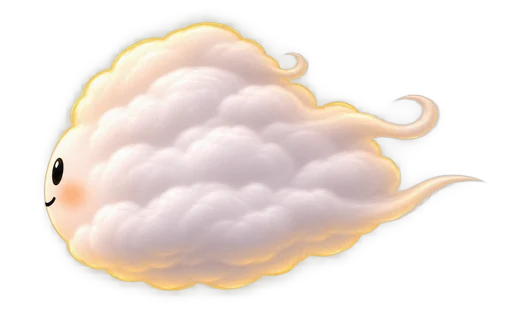
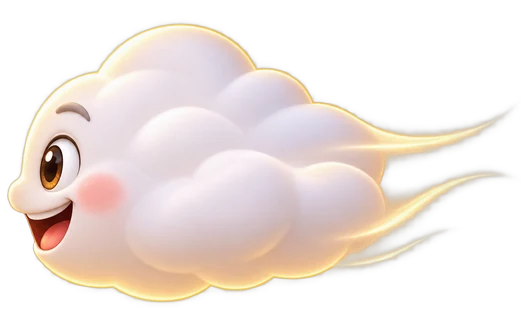
Breezy's one face: big happy eyes in all four website drawings
Cris picked this face for everywhere on Nov 18, so the site matches the animation.
The old blink lids were sized for small oval eyes and are off until they are redrawn.

Changed region(s): [[0.0, 0.0612, 0.9697, 0.948], [0.4848, 0.6116, 0.5455, 0.6728]]

diff --git a/public/welcome/index.html b/public/welcome/index.html
@@ -11,7 +11,7 @@
 <meta name="description" content="You're a Big Breezoe member now. Watch the short clip, see what you get for free, and answer nine quick taps to find your first step.">
 <!--bb:head-->
 <link rel="preload" href="/fonts/archivo-latin.woff2" as="font" type="font/woff2" crossorigin>
-<link rel="stylesheet" href="/assets/bb.css?v=29eba248fc">
+<link rel="stylesheet" href="/assets/bb.css?v=bfbae03213">
 <script>document.documentElement.classList.add('js');setTimeout(function(){if(!window.__bbReady)document.documentElement.classList.add('rv-off')},2500)</script>
 <script src="/assets/bb.js?v=9c94d886b9" data-bz="b464231d4d" defer></script>
 <!--/bb:head-->

diff --git a/public/assets/bb.css b/public/assets/bb.css
@@ -1264,3 +1264,7 @@ body::after{content:'';position:fixed;inset:0;z-index:-1;pointer-events:none;
 .bzc[data-view=tq] .bzc-lid.l{left:25.4%;top:44.0%;width:3.2%;height:10.1%;margin-left:-1.6%}
 .bzc[data-view=tq] .bzc-lid.r{left:35.2%;top:45.9%;width:4.0%;height:10.4%;margin-left:-2.0%}
 @media (prefers-reduced-motion:reduce){.bzc-turn,.bzc-turn img{transition:none}}
+
+/* ---------- Nov 18: Breezy's one face. Cris picked the big happy eyes for everywhere, so the four drawings are redrawn in that face.
+   The old blink was two lids sized for small oval eyes; it is off until lids are redrawn for these eyes. ---------- */
+.bzc-lid{display:none!important}

diff --git a/public/index.html b/public/index.html
@@ -29,7 +29,7 @@
 <link rel="preload" href="/media/hero-loop.avif" as="image" type="image/avif" fetchpriority="high">
 <!--bb:head-->
 <link rel="preload" href="/fonts/archivo-latin.woff2" as="font" type="font/woff2" crossorigin>
-<link rel="stylesheet" href="/assets/bb.css?v=29eba248fc">
+<link rel="stylesheet" href="/assets/bb.css?v=bfbae03213">
 <script>document.documentElement.classList.add('js');setTimeout(function(){if(!window.__bbReady)document.documentElement.classList.add('rv-off')},2500)</script>
 <script src="/assets/bb.js?v=9c94d886b9" data-bz="b464231d4d" defer></script>
 <!--/bb:head-->

diff --git a/public/404.html b/public/404.html
@@ -11,7 +11,7 @@
 <noscript></noscript>
 <!--bb:head-->
 <link rel="preload" href="/fonts/archivo-latin.woff2" as="font" type="font/woff2" crossorigin>
-<link rel="stylesheet" href="/assets/bb.css?v=29eba248fc">
+<link rel="stylesheet" href="/assets/bb.css?v=bfbae03213">
 <script>document.documentElement.classList.add('js');setTimeout(function(){if(!window.__bbReady)document.documentElement.classList.add('rv-off')},2500)</script>
 <script src="/assets/bb.js?v=9c94d886b9" data-bz="b464231d4d" defer></script>
 <!--/bb:head-->

diff --git a/public/blogs/index.html b/public/blogs/index.html
@@ -24,7 +24,7 @@
 <noscript></noscript>
 <!--bb:head-->
 <link rel="preload" href="/fonts/archivo-latin.woff2" as="font" type="font/woff2" crossorigin>
-<link rel="stylesheet" href="/assets/bb.css?v=29eba248fc">
+<link rel="stylesheet" href="/assets/bb.css?v=bfbae03213">
 <script>document.documentElement.classList.add('js');setTimeout(function(){if(!window.__bbReady)document.documentElement.classList.add('rv-off')},2500)</script>
 <script src="/assets/bb.js?v=9c94d886b9" data-bz="b464231d4d" defer></script>
 <!--/bb:head-->

diff --git a/public/blueprint/guide/index.html b/public/blueprint/guide/index.html
@@ -24,7 +24,7 @@
 <noscript></noscript>
 <!--bb:head-->
 <link rel="preload" href="/fonts/archivo-latin.woff2" as="font" type="font/woff2" crossorigin>
-<link rel="stylesheet" href="/assets/bb.css?v=29eba248fc">
+<link rel="stylesheet" href="/assets/bb.css?v=bfbae03213">
 <script>document.documentElement.classList.add('js');setTimeout(function(){if(!window.__bbReady)document.documentElement.classList.add('rv-off')},2500)</script>
 <script src="/assets/bb.js?v=9c94d886b9" data-bz="b464231d4d" defer></script>
 <!--/bb:head-->

diff --git a/public/blueprint/index.html b/public/blueprint/index.html
@@ -24,7 +24,7 @@
 <noscript></noscript>
 <!--bb:head-->
 <link rel="preload" href="/fonts/archivo-latin.woff2" as="font" type="font/woff2" crossorigin>
-<link rel="stylesheet" href="/assets/bb.css?v=29eba248fc">
+<link rel="stylesheet" href="/assets/bb.css?v=bfbae03213">
 <script>document.documentElement.classList.add('js');setTimeout(function(){if(!window.__bbReady)document.documentElement.classList.add('rv-off')},2500)</script>
 <script src="/assets/bb.js?v=9c94d886b9" data-bz="b464231d4d" defer></script>
 <!--/bb:head-->

diff --git a/public/booked/index.html b/public/booked/index.html
@@ -11,7 +11,7 @@
 <noscript></noscript>
 <!--bb:head-->
 <link rel="preload" href="/fonts/archivo-latin.woff2" as="font" type="font/woff2" crossorigin>
-<link rel="stylesheet" href="/assets/bb.css?v=29eba248fc">
+<link rel="stylesheet" href="/assets/bb.css?v=bfbae03213">
 <script>document.documentElement.classList.add('js');setTimeout(function(){if(!window.__bbReady)document.documentElement.classList.add('rv-off')},2500)</script>
 <script src="/assets/bb.js?v=9c94d886b9" data-bz="b464231d4d" defer></script>
 <!--/bb:head-->

diff --git a/public/checkout/index.html b/public/checkout/index.html
@@ -11,7 +11,7 @@
 <noscript></noscript>
 <!--bb:head-->
 <link rel="preload" href="/fonts/archivo-latin.woff2" as="font" type="font/woff2" crossorigin>
-<link rel="stylesheet" href="/assets/bb.css?v=29eba248fc">
+<link rel="stylesheet" href="/assets/bb.css?v=bfbae03213">
 <script>document.documentElement.classList.add('js');setTimeout(function(){if(!window.__bbReady)document.documentElement.classList.add('rv-off')},2500)</script>
 <script src="/assets/bb.js?v=9c94d886b9" data-bz="b464231d4d" defer></script>
 <!--/bb:head-->

diff --git a/public/download/index.html b/public/download/index.html
@@ -11,7 +11,7 @@
 <noscript></noscript>
 <!--bb:head-->
 <link rel="preload" href="/fonts/archivo-latin.woff2" as="font" type="font/woff2" crossorigin>
-<link rel="stylesheet" href="/assets/bb.css?v=29eba248fc">
+<link rel="stylesheet" href="/assets/bb.css?v=bfbae03213">
 <script>document.documentElement.classList.add('js');setTimeout(function(){if(!window.__bbReady)document.documentElement.classList.add('rv-off')},2500)</script>
 <script src="/assets/bb.js?v=9c94d886b9" data-bz="b464231d4d" defer></script>
 <!--/bb:head-->

diff --git a/public/gear/index.html b/public/gear/index.html
@@ -24,7 +24,7 @@
 <noscript></noscript>
 <!--bb:head-->
 <link rel="preload" href="/fonts/archivo-latin.woff2" as="font" type="font/woff2" crossorigin>
-<link rel="stylesheet" href="/assets/bb.css?v=29eba248fc">
+<link rel="stylesheet" href="/assets/bb.css?v=bfbae03213">
 <script>document.documentElement.classList.add('js');setTimeout(function(){if(!window.__bbReady)document.documentElement.classList.add('rv-off')},2500)</script>
 <script src="/assets/bb.js?v=9c94d886b9" data-bz="b464231d4d" defer></script>
 <!--/bb:head-->

diff --git a/public/members/index.html b/public/members/index.html
@@ -24,7 +24,7 @@
 <noscript></noscript>
 <!--bb:head-->
 <link rel="preload" href="/fonts/archivo-latin.woff2" as="font" type="font/woff2" crossorigin>
-<link rel="stylesheet" href="/assets/bb.css?v=29eba248fc">
+<link rel="stylesheet" href="/assets/bb.css?v=bfbae03213">
 <script>document.documentElement.classList.add('js');setTimeout(function(){if(!window.__bbReady)document.documentElement.classList.add('rv-off')},2500)</script>
 <script src="/assets/bb.js?v=9c94d886b9" data-bz="b464231d4d" defer></script>
 <!--/bb:head-->
